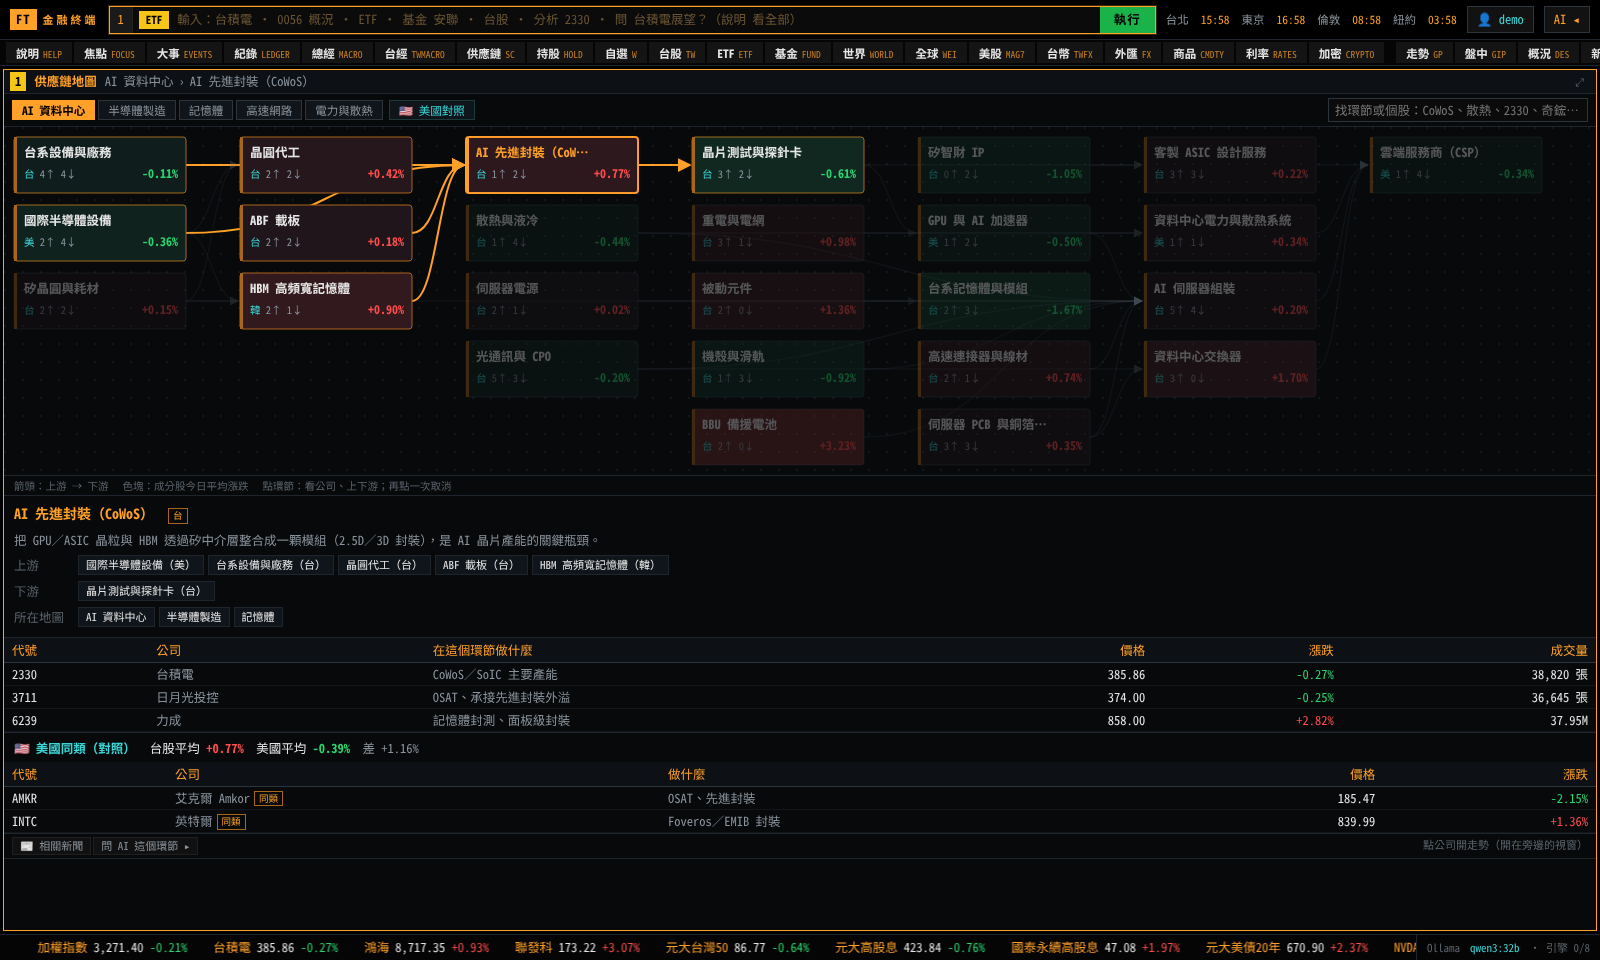
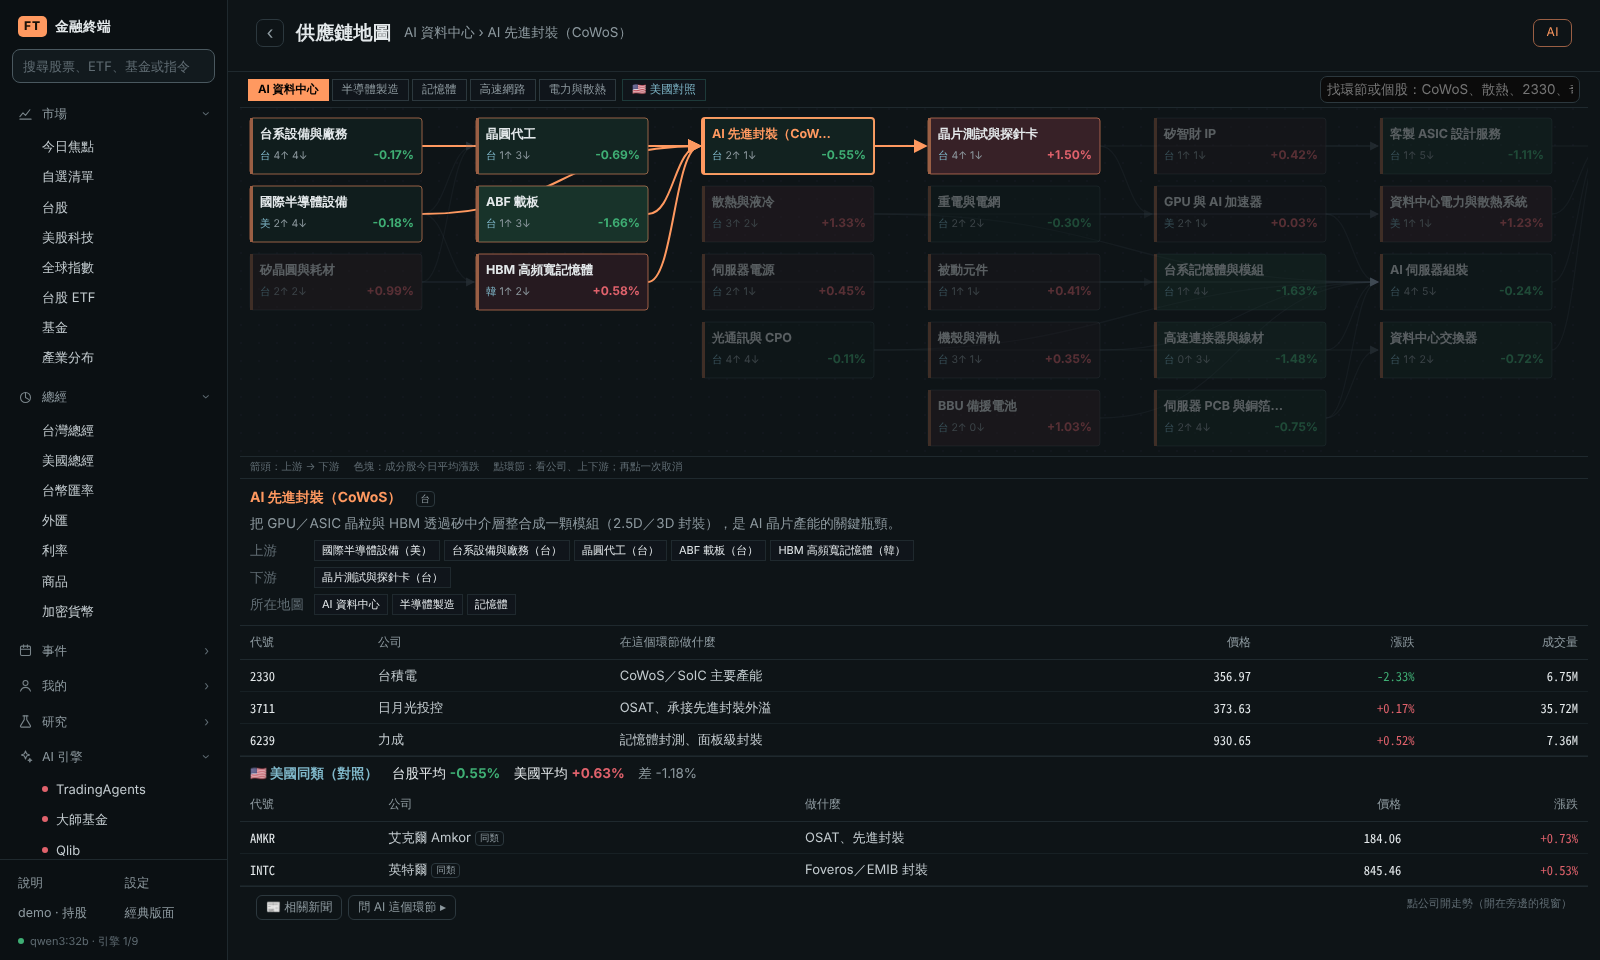
README 截圖更新：各功能頁改用簡潔版面重拍，經典版面保留總覽與手機版
Claude-Session: https://claude.ai/code/session_01NNBwHc77ht59n5kuEYo2ei

diff --git a/scripts/screenshots.py b/scripts/screenshots.py
@@ -4,68 +4,108 @@
   curl -XPOST -H "x-ft: 1" localhost:8765/api/events/refresh
   python scripts/screenshots.py            # 全部；或指定檔名，例 09-macro-tw
 
+各功能頁用「簡潔版面」（預設）截；01-overview 與 14-mobile 是「經典版面」（四格終端機）。
+00-clean／17-validate／18-track 另外產生（要 AI 引擎或策略研究引擎），這支不動它們。
 需要 playwright（pip install playwright && playwright install chromium）。會在示範資料庫建立 demo 帳號與示範持股。
 """
-import asyncio, json, sys
-from playwright.async_api import async_playwright
+import asyncio
 import os
+import sys
+
+from playwright.async_api import async_playwright
+
 B = os.environ.get("FT_URL", "http://127.0.0.1:8765")
 OUT = os.path.join(os.path.dirname(os.path.abspath(__file__)), "..", "docs", "screenshots") + "/"
-MAXI = "(() => { const p = document.querySelectorAll('.pane')[0]; if (!p.classList.contains('maximized')) toggleMax(0); })()"
+LOGIN = """async () => { const H = {'content-type': 'application/json', 'x-ft': '1'};
+  await fetch('/api/auth/register', {method: 'POST', headers: H, body: JSON.stringify({username: 'demo', password: 'demo-password-123'})});
+  await fetch('/api/auth/login', {method: 'POST', headers: H, body: JSON.stringify({username: 'demo', password: 'demo-password-123'})}); }"""
+SEED = """async () => {
+  const H = {'content-type': 'application/json', 'x-ft': '1'};
+  if ((await (await fetch('/api/me/holdings')).json()).rows.length) return 'exists';
+  for (const x of [['2330.TW', 2000], ['0050.TW', 3000], ['00878.TW', 10000], ['2454.TW', 200], ['NVDA', 3]])
+    await fetch('/api/me/holdings', {method: 'POST', headers: H, body: JSON.stringify({symbol: x[0], shares: x[1], cost: 1, opened: '2025-03-10'})});
+  const f = {'2330.TW': 0.82, '0050.TW': 0.9, '00878.TW': 1.04, '2454.TW': 0.95, 'NVDA': 0.7};
+  for (const r of (await (await fetch('/api/me/holdings')).json()).rows)
+    await fetch('/api/me/holdings/' + r.id, {method: 'PUT', headers: H, body: JSON.stringify({symbol: r.symbol, shares: r.shares, cost: +(r.last * f[r.symbol]).toFixed(2), opened: '2025-03-10'})});
+  for (const x of [['0050.TW', 5000, '6,16,26'], ['VOO', 3000, '6'], ['BTC-USD', 1000, '16']])
+    await fetch('/api/me/dca', {method: 'POST', headers: H, body: JSON.stringify({symbol: x[0], amount: x[1], freq: 'monthly', days: x[2], start: '2023-01-01'})});
+  return 'seeded'; }"""
+PAGES = [("02-chart-events", "^TWII 走勢", 4000), ("03-etf", "ETF", 3000), ("04-etf-detail", "0056 ETF", 3500),
+         ("05-focus", "焦點", 4000), ("06-supply-chain", "供應鏈 CoWoS", 3500), ("07-events", "大事", 3000),
+         ("08-macro-us", "總經 NETLIQ", 4000), ("09-macro-tw", "台經 SIGNAL", 4000), ("10-twfx", "台幣 JPY", 4000),
+         ("11-toolkit", "技術 2330", 4000), ("15-sectors-us", "產業 美股", 4000), ("16-sectors-tw", "產業 台股", 4000),
+         ("12-holdings", "持股", 4500)]
+
 
 async def cmd(pg, text, wait=2500):
-    await pg.fill("#cmd", text); await pg.press("#cmd", "Enter"); await pg.wait_for_timeout(wait)
+    await pg.fill("#cmd", text)
+    await pg.press("#cmd", "Enter")
+    await pg.wait_for_timeout(wait)
+    # a late search suggestion must not cover the page
+    await pg.evaluate("document.getElementById('suggest').classList.add('hidden'); document.activeElement && document.activeElement.blur()")
+
+
+async def layout(pg, name, wait=3500):
+    await pg.evaluate(f"localStorage.setItem('ft.layout', '{name}')")
+    await pg.reload()
+    await pg.wait_for_timeout(wait)
+
 
 async def main(only):
+    want = lambda n: not only or n in only  # noqa: E731
     async with async_playwright() as p:
         b = await p.chromium.launch()
         ctx = await b.new_context(viewport={"width": 1600, "height": 960})
         pg = await ctx.new_page()
         errs = []
         pg.on("pageerror", lambda e: errs.append(str(e)))
-        await pg.goto(B + "/"); await pg.wait_for_timeout(2000)
-        await pg.evaluate("""async () => { const H = {'content-type': 'application/json', 'x-ft': '1'};
-          await fetch('/api/auth/register', {method: 'POST', headers: H, body: JSON.stringify({username: 'demo', password: 'demo-password-123'})});
-          await fetch('/api/auth/login', {method: 'POST', headers: H, body: JSON.stringify({username: 'demo', password: 'demo-password-123'})}); }""")
-        await pg.reload(); await pg.wait_for_timeout(3500)
-        await pg.evaluate("toggleSide()"); await pg.wait_for_timeout(500)
-        async def shot(name):
-            if only and name not in only: return
-            await pg.screenshot(path=OUT + name + ".png"); print("shot", name, errs[-1:] if errs else "")
-        await cmd(pg, "1 台積電", 3000)
-        await shot("01-overview")
-        pages = [("02-chart-events", "1 ^TWII", 4000), ("03-etf", "1 ETF", 3000), ("04-etf-detail", "1 0056 概況", 3000),
-                 ("05-focus", "1 焦點", 3500), ("06-supply-chain", "1 供應鏈 CoWoS", 3500), ("07-events", "1 大事", 3000),
-                 ("08-macro-us", "1 總經 NETLIQ", 4000), ("09-macro-tw", "1 台經 SIGNAL", 4000), ("10-twfx", "1 台幣 JPY", 4000),
-                 ("11-toolkit", "1 技術 2330", 4000), ("15-sectors-us", "1 產業 美股", 4000), ("16-sectors-tw", "1 產業 台股", 4000)]
-        for name, c, w in pages:
-            if only and name not in only: continue
-            await cmd(pg, c, 800); await pg.evaluate(MAXI); await pg.wait_for_timeout(w); await shot(name)
-        # holdings + DCA (demo account in a throwaway data dir)
-        if not only or "12-holdings" in only or "13-dca" in only:
-            r = await pg.evaluate("""async () => {
-              const H = {'content-type': 'application/json', 'x-ft': '1'};
-              for (const x of [['2330.TW', 2000], ['0050.TW', 3000], ['00878.TW', 10000], ['2454.TW', 200], ['NVDA', 3]])
-                await fetch('/api/me/holdings', {method: 'POST', headers: H, body: JSON.stringify({symbol: x[0], shares: x[1], cost: 1, opened: '2025-03-10'})});
-              const f = {'2330.TW': 0.82, '0050.TW': 0.9, '00878.TW': 1.04, '2454.TW': 0.95, 'NVDA': 0.7};
-              for (const r of (await (await fetch('/api/me/holdings')).json()).rows)
-                await fetch('/api/me/holdings/' + r.id, {method: 'PUT', headers: H, body: JSON.stringify({symbol: r.symbol, shares: r.shares, cost: +(r.last * f[r.symbol]).toFixed(2), opened: '2025-03-10'})});
-              for (const x of [['0050.TW', 5000, '6,16,26'], ['VOO', 3000, '6'], ['BTC-USD', 1000, '16']])
-                await fetch('/api/me/dca', {method: 'POST', headers: H, body: JSON.stringify({symbol: x[0], amount: x[1], freq: 'monthly', days: x[2], start: '2023-01-01'})});
-              return (await fetch('/api/me/holdings')).status; }""")
-            print("holdings status", r)
-            await cmd(pg, "1 持股", 800); await pg.evaluate(MAXI); await pg.wait_for_timeout(4500); await shot("12-holdings")
-            await pg.evaluate("(() => { const p = document.querySelector('.pane.maximized'); if (p) toggleMax(0); })()")
-            await pg.evaluate("toggleSide()")
+        await pg.goto(B + "/")
+        await pg.wait_for_timeout(2000)
+        await pg.evaluate(LOGIN)
+        print("holdings:", await pg.evaluate(SEED))
+
+        async def shot(page, name):
+            await page.screenshot(path=OUT + name + ".png")
+            print("shot", name, errs[-1:] if errs else "")
+
+        # ---- 經典版面（四格）
+        if want("01-overview"):
+            await layout(pg, "classic")
+            await pg.evaluate("toggleSide(false)")
+            await cmd(pg, "1 台積電", 3500)
+            await shot(pg, "01-overview")
+        if want("14-mobile"):
+            m = await b.new_context(viewport={"width": 390, "height": 844}, device_scale_factor=2, is_mobile=True)
+            mp = await m.new_page()
+            await mp.goto(B + "/")
+            await layout(mp, "classic")
+            await shot(mp, "14-mobile")
+            await m.close()
+
+        # ---- 簡潔版面（預設）：各功能頁，右側 AI 收起讓頁面寬一點
+        await layout(pg, "clean")
+        await pg.evaluate("toggleSide(false)")
+        for name, c, w in PAGES:
+            if want(name):
+                await cmd(pg, c, w)
+                await shot(pg, name)
+        if want("13-dca"):
             await cmd(pg, "定期定額 0050, VOO, BTC-USD", 1500)
             btn = pg.locator("text=開始回測")
-            if await btn.count(): await btn.first.click()
-            await pg.wait_for_timeout(5000); await shot("13-dca")
-        # phone
-        if not only or "14-mobile" in only:
-            m = await b.new_page(viewport={"width": 390, "height": 844}, device_scale_factor=2, is_mobile=True)
-            await m.goto(B + "/"); await m.wait_for_timeout(3500)
-            await m.screenshot(path=OUT + "14-mobile.png"); print("shot 14-mobile")
+            if await btn.count():
+                await btn.first.click()
+            await pg.wait_for_timeout(5000)
+            await shot(pg, "13-dca")
+        if want("00-clean-mobile"):
+            m = await b.new_context(viewport={"width": 390, "height": 844}, device_scale_factor=2, is_mobile=True)
+            mp = await m.new_page()
+            await mp.goto(B + "/")
+            await layout(mp, "clean")
+            await mp.evaluate("run('2330')")
+            await mp.wait_for_timeout(3500)
+            await shot(mp, "00-clean-mobile")
+            await m.close()
         print("errors:", errs)
         await b.close()
+
 asyncio.run(main(sys.argv[1:]))
